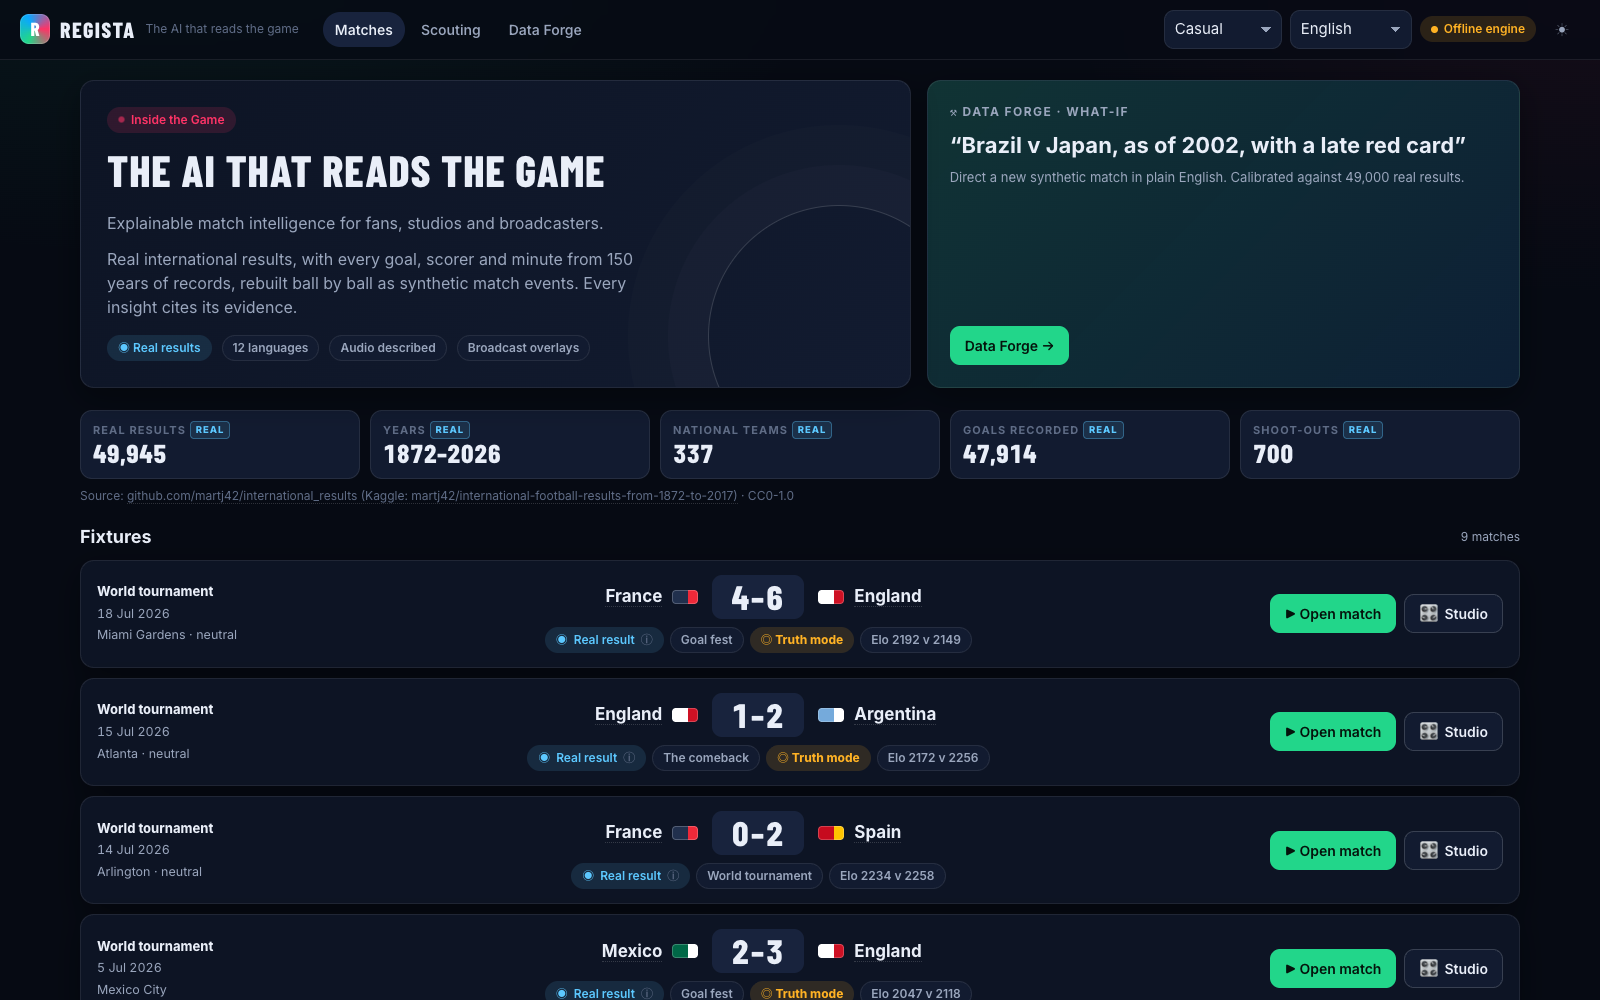
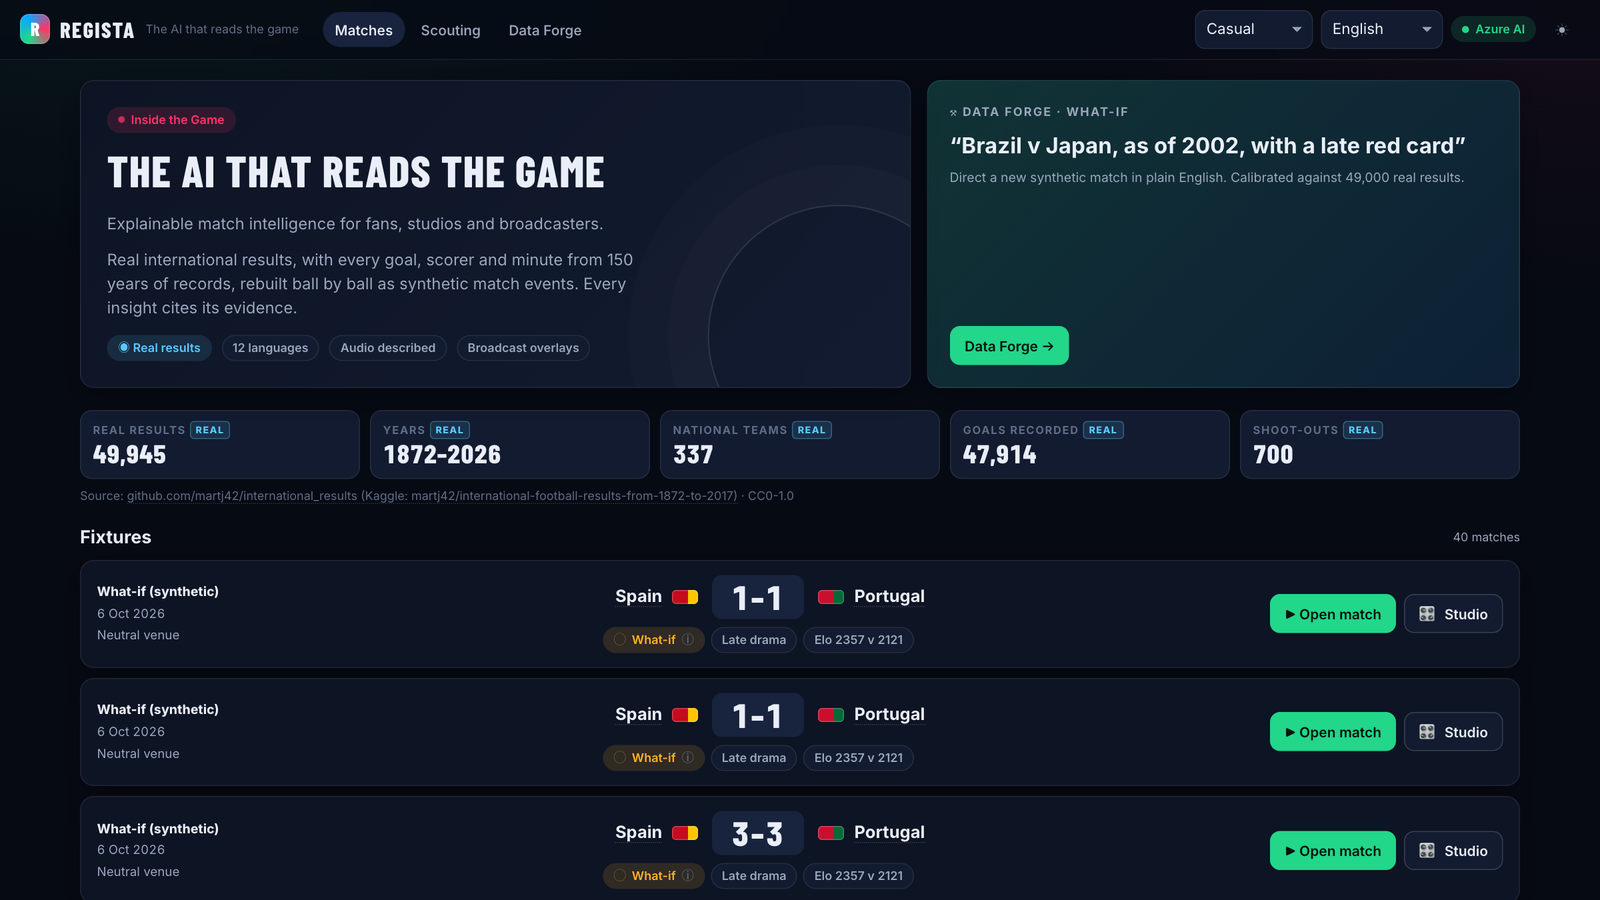
README: live link, refreshed screenshots on Azure AI, current test numbers and new features

diff --git a/README.md b/README.md
@@ -4,6 +4,8 @@
 
 Built for the Microsoft + Premier League *Inside the Game* Developer Hackathon with Microsoft Foundry, Microsoft Agent Framework, MCP, Azure AI Services, Microsoft Fabric, Cosmos DB, Event Hubs, Azure Functions, Azure Container Apps, Azure Static Web Apps, Azure Web PubSub and GitHub Copilot. Category: **Best Enterprise Solution**.
 
+**Try it live:** https://black-beach-0613e390f.4.azurestaticapps.net (no login; [judge mode](#judge-mode) below). The API scales to zero between sessions, so the very first request can take up to 30 seconds.
+
 ![Control room at 68': Argentina's planted press switch detected, the Verifier drill catching an overstated number (1.76 struck through, evidence says 0.82), and the truth panel scoring the detection in 286 seconds](docs/screenshots/studio-hero.png)
 
 > A *regista* is the deep-lying playmaker who sees the whole pitch and dictates the tempo. Regista does that for every viewer, producer and manager: what happened, **why it mattered**, with the evidence.
@@ -33,25 +35,34 @@ Built for the Microsoft + Premier League *Inside the Game* Developer Hackathon w
 
 | Surface | What you get |
 |---|---|
-| **Control room** (`/studio/:id`) | Ranked insight cards with approve / edit / kill; auto-approve above a producer-set confidence; editorial rules (no betting or loaded language); Content Safety; a full audit log; broadcaster profiles (languages, tone, brand, threshold); versioned JSON cues with translated strings; truth panel and Verifier drill; a half-time pack (talking points plus graphics that go into the approval queue) |
-| **Air-ready overlays** (`/overlay/:id`) | Transparent 1920×1080 browser source for OBS / vMix driven by the cue contract (timecode, duration, priority, template, data, strings); data-only graphics fire even if AI text is slow |
+| **Control room** (`/studio/:id`) | Ranked insight cards with approve / edit / kill; auto-approve above a producer-set confidence; editorial rules (no betting or loaded language); Content Safety; a full audit log; broadcaster profiles (languages, tone, brand, threshold); versioned JSON cues with translated strings; truth panel and Verifier drill; a half-time pack (talking points plus graphics that go into the approval queue); **go live to all viewers** with the real viewer count from Web PubSub (the producer's own Studio connection isn't counted) |
+| **Air-ready overlays** (`/overlay/:id`) | Transparent 1920×1080 browser source for OBS / vMix driven by the cue contract (timecode, duration, priority, template, data, strings); data-only graphics fire even if AI text is slow. Add `?preview=1` to check it in a browser (checkerboard background and a "waiting for graphics" note) |
 | **Matchday** (`/match/:id`) | **Live broadcast** (one shared timeline for every viewer, fanned out by Azure Web PubSub) or a personal **replay** (own speed and seek). Five views that differ in layout and pace, not just wording: **Analyst** (dense: pitch, pulse, insight cards, event feed with pass difficulty / ball and shot speed / sprint tags, key battle), **Casual** (big moments only, unhurried), **Player focus** (one player's touches, distance, sprints, top speed), **Club focus** (one side's story) and **Single metric** (one huge live number for a second screen). Plus control vs chaos, freeze frames, seven personas, 12 languages, neural voice and audio description |
 | **Dugout** (`/match/:id/dugout`) | For the manager: form vs a player's own baseline, fatigue vs team-mates (altitude-aware), "replace X with Y" with predicted win-probability impact, chase/protect changes, danger men, opponent patterns, spoken assistant-coach briefing |
-| **Scouting** (`/scouting`) | Player DNA (REAL record + MODEL tendencies: favourite side, foot, penalty placement, keeper dives, distance, sprints), strengths and weaknesses vs peers, "how to stop him"; team reports with real home/away records and "how to play against them" |
+| **Scouting** (`/scouting`) | Player DNA (REAL record + MODEL tendencies: favourite side, foot, penalty placement, keeper dives, distance, sprints), strengths and weaknesses vs peers, "how to stop him"; a team report for every scouted national team, with real home/away records and "how to play against them" |
 | **Tactics, Ask, Recap** | Pass networks and profiles, shape changes, xG waterfalls; "Ask the match" via an agent using MCP tools; multi-agent recaps with run-sheets and social packs in every persona and language |
 | **Data Forge** (`/forge`) | Natural-language what-if matches, calibration report, truth score history; a full synthetic **season** generator with planted changes and a realism report for the Fabric Lakehouse |
 | **Ops** (`/ops`) | Narrative latency SLO (p50 / p95 vs target) and cost per match (model calls, tokens, estimated cost) |
 
 <table>
-<tr><td><img src="docs/screenshots/matchday-casual.png" alt="Matchday, Casual view: big moments only, win probability bar"></td>
-<td><img src="docs/screenshots/matchday-analyst.png" alt="Matchday, Analyst view: insight card with its working beside the truth panel"></td></tr>
-<tr><td align="center">Casual view: big moments, unhurried</td><td align="center">Analyst view: every working shown</td></tr>
+<tr><td><img src="docs/screenshots/matchday-casual.png" alt="Matchday, Casual view: chance-to-win bar and the latest goal explained in plain words"></td>
+<td><img src="docs/screenshots/matchday-analyst.png" alt="Matchday, Analyst view: a detected press switch with its working and citations"></td></tr>
+<tr><td align="center">Casual view: big moments, plain words</td><td align="center">Analyst view: every working shown</td></tr>
+<tr><td><img src="docs/screenshots/studio-azure.png" alt="Studio on Azure AI: detected changes with evidence charts beside the truth panel (recall 100%, 0 false alarms, median 248 s)"></td>
+<td><img src="docs/screenshots/overlay.png" alt="Broadcast overlay: an approved lower third, Argentina pressing higher from 64', on the transparent page"></td></tr>
+<tr><td align="center">Studio on Azure AI: detections graded by the truth panel</td><td align="center">Overlay: the approved lower third on air</td></tr>
+<tr><td><img src="docs/screenshots/ask.png" alt="Ask Regista: an answer to why England lost, every number tagged with a fact ID, fact-checked against 50 facts"></td>
+<td><img src="docs/screenshots/recap.png" alt="Automated recap: headline, report, player of the match and a 60-second audio script, fact-checked against 139 facts"></td></tr>
+<tr><td align="center">Ask Regista: MCP tools, every number cited</td><td align="center">Multi-agent recap, fact-checked</td></tr>
+<tr><td><img src="docs/screenshots/matchday-player.png" alt="Matchday, Player focus: one player's touches, passes, distance, sprints and top speed"></td>
+<td><img src="docs/screenshots/tactics.png" alt="Tactics: shape, xG, PPDA, field tilt and the pass network"></td></tr>
+<tr><td align="center">Player focus: one player all match</td><td align="center">Tactics: shape, pressing and pass network</td></tr>
 <tr><td><img src="docs/screenshots/dugout.png" alt="Dugout: substitution recommendation with predicted win-probability impact"></td>
-<td><img src="docs/screenshots/scouting.png" alt="Scouting: player list ranked by shrunk average rating"></td></tr>
-<tr><td align="center">Dugout: "replace X with Y" and what it is worth</td><td align="center">Scouting: Player DNA and opposition reports</td></tr>
+<td><img src="docs/screenshots/scouting.png" alt="Scouting: Player DNA with the real international goal record by period and venue"></td></tr>
+<tr><td align="center">Dugout: "replace X with Y" and what it is worth</td><td align="center">Scouting: Player DNA (REAL record + MODEL tendencies)</td></tr>
 </table>
 
-Screenshots are from the offline engine with `REGISTA_VIDEO_SAFE=1` (competition names replaced with generic labels).
+Screenshots are from the running app with `REGISTA_VIDEO_SAFE=1` (competition names replaced with generic labels): the gallery on Azure AI (Microsoft Foundry); the control-room image at the top on the offline engine, to show the Verifier drill catching a planted error.
 
 ## Evidence
 
@@ -65,7 +76,7 @@ Every push runs `python -m app.evals.run --mode offline` as a gate:
 | Real-result fidelity (score, scorers, minutes) | **100%** |
 | Calibration vs real fixtures and event benchmarks | **16/16** |
 | Win-probability Brier score on real outcomes | **0.469** (coin flip: 0.667) |
-| Tests | **API:** 144 unit tests, 96% statement coverage (CI floor 90%); 9 live-server integration tests over real HTTP, SSE and MCP (30 concurrent viewers, first event p95 320 ms); 6 deployed-environment tests incl. a Web PubSub round trip. **Web:** 131 Vitest tests (CI coverage floor); **16 Playwright end-to-end tests** in a real browser against the real API, incl. the hero moment, the overlay, axe accessibility scans and RTL Arabic |
+| Tests | **API:** 155 unit tests, 96% statement coverage (CI floor 90%); 9 live-server integration tests over real HTTP, SSE and MCP (30 concurrent viewers, first event p95 320 ms); 6 deployed-environment tests incl. a Web PubSub round trip. **Web:** 145 Vitest tests (CI coverage floor); **17 Playwright end-to-end tests** in a real browser against the real API, incl. the hero moment, the overlay, axe accessibility scans and RTL Arabic |
 | Shape changes vs ground truth | 67% precision |
 | Scouting rediscovers player tendencies | foot 100%, penalty side 82%, keeper dive 100% |
 
@@ -89,13 +100,14 @@ Diagrams (open in diagrams.net or the Draw.io VS Code extension): [Container App
   - **Container Apps** (`infra/main.bicep`): API and feeder job. The cheapest; runs the live demo.
   - **AKS standard** (`infra/aks`): Entra-only AKS with workload identity, Cilium, app routing and Kubernetes manifests in `deploy/k8s`.
   - **AKS enterprise** (`infra/aks-enterprise`): API Management Standard v2 (the only public endpoint) → VNet integration → internal NGINX → private AKS; every PaaS service behind a private endpoint; deploys from a Managed DevOps Pool inside the VNet.
+- **Microsoft Fabric as code** (`scripts/fabric-setup.py`, run by the azd postprovision hook): workspace, Lakehouse with the CC0 results, Eventhouse and KQL table, workspace identity, the keyless Event Hubs connection and the Eventstream into the Eventhouse. Every item is find-or-create, so re-runs change nothing; on the enterprise profile it adds a managed private endpoint to the private Event Hubs.
 - **CI/CD**: **azd** for every profile (`azure.yaml`, `deploy/aks`, `deploy/aks-enterprise`); **GitHub Actions** (`.github/workflows`) and **Azure Pipelines** (`.azuredevops/pipelines`) with lint, coverage floors, evaluation gates with the truth score in the job summary, Bicep what-if, approvals and smoke tests. GitHub OIDC; bootstrap with the GitHub CLI. GitHub Copilot agent mode: `.github/copilot-instructions.md`, custom agents and `.vscode/mcp.json` (Regista MCP, Azure MCP, Fabric Eventhouse MCP).
 
 ## Judge mode
 
-No login. Open the web URL and:
+No login. Open https://black-beach-0613e390f.4.azurestaticapps.net and:
 1. **Hub → England v Argentina → Studio.** Turn on **Truth mode** and the **Verifier drill**, pick **Jump to → 58:00** and play at 10×, watch Argentina's press switch (planted at 63') get detected, the Verifier catch the overstated number, approve the lower-third, see the truth panel light up, then press **What did it change?**
-2. **Matchday** views: switch Analyst → Casual → Player focus to see the same match told at different pace and depth.
+2. **Matchday** views: switch Analyst → Casual → Player focus to see the same match told at different pace and depth. Back in the Studio, **Start broadcast** and open the match on a second device: the viewer count goes up.
 3. **Dugout** on Argentina v Saudi Arabia at 70' for live manager advice; **Scouting** for Player DNA.
 4. **Forge** for calibration and the truth-score history; **Ops** for SLO and cost.
 5. Point GitHub Copilot agent mode (or any MCP client) at `<api>/mcp`.
